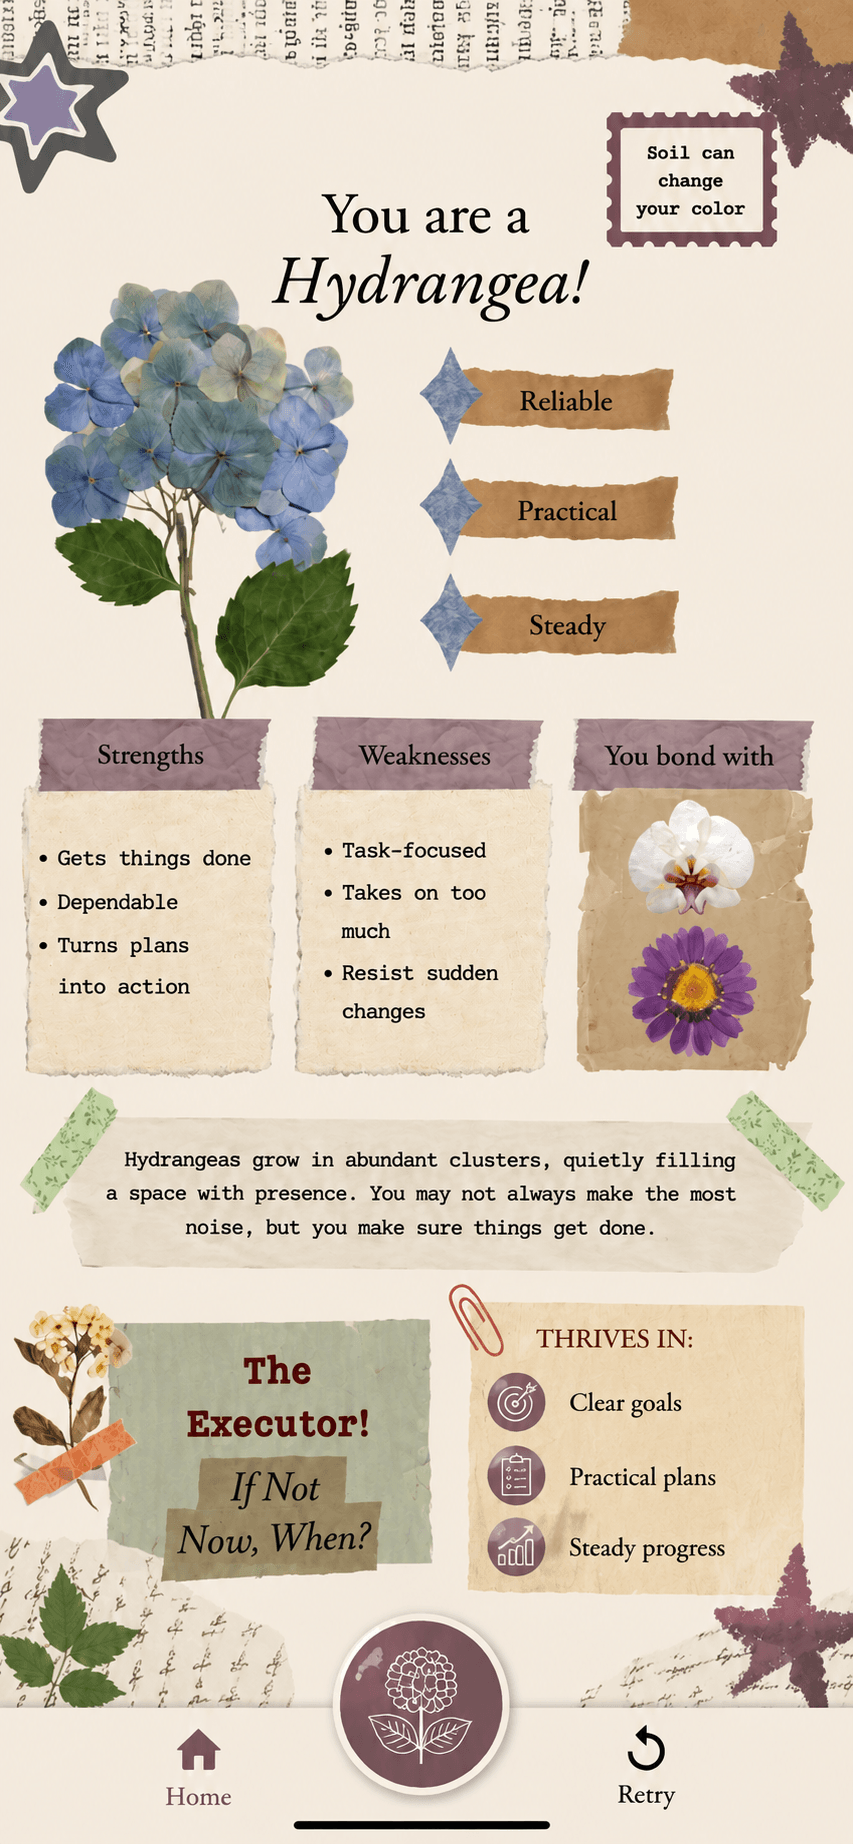
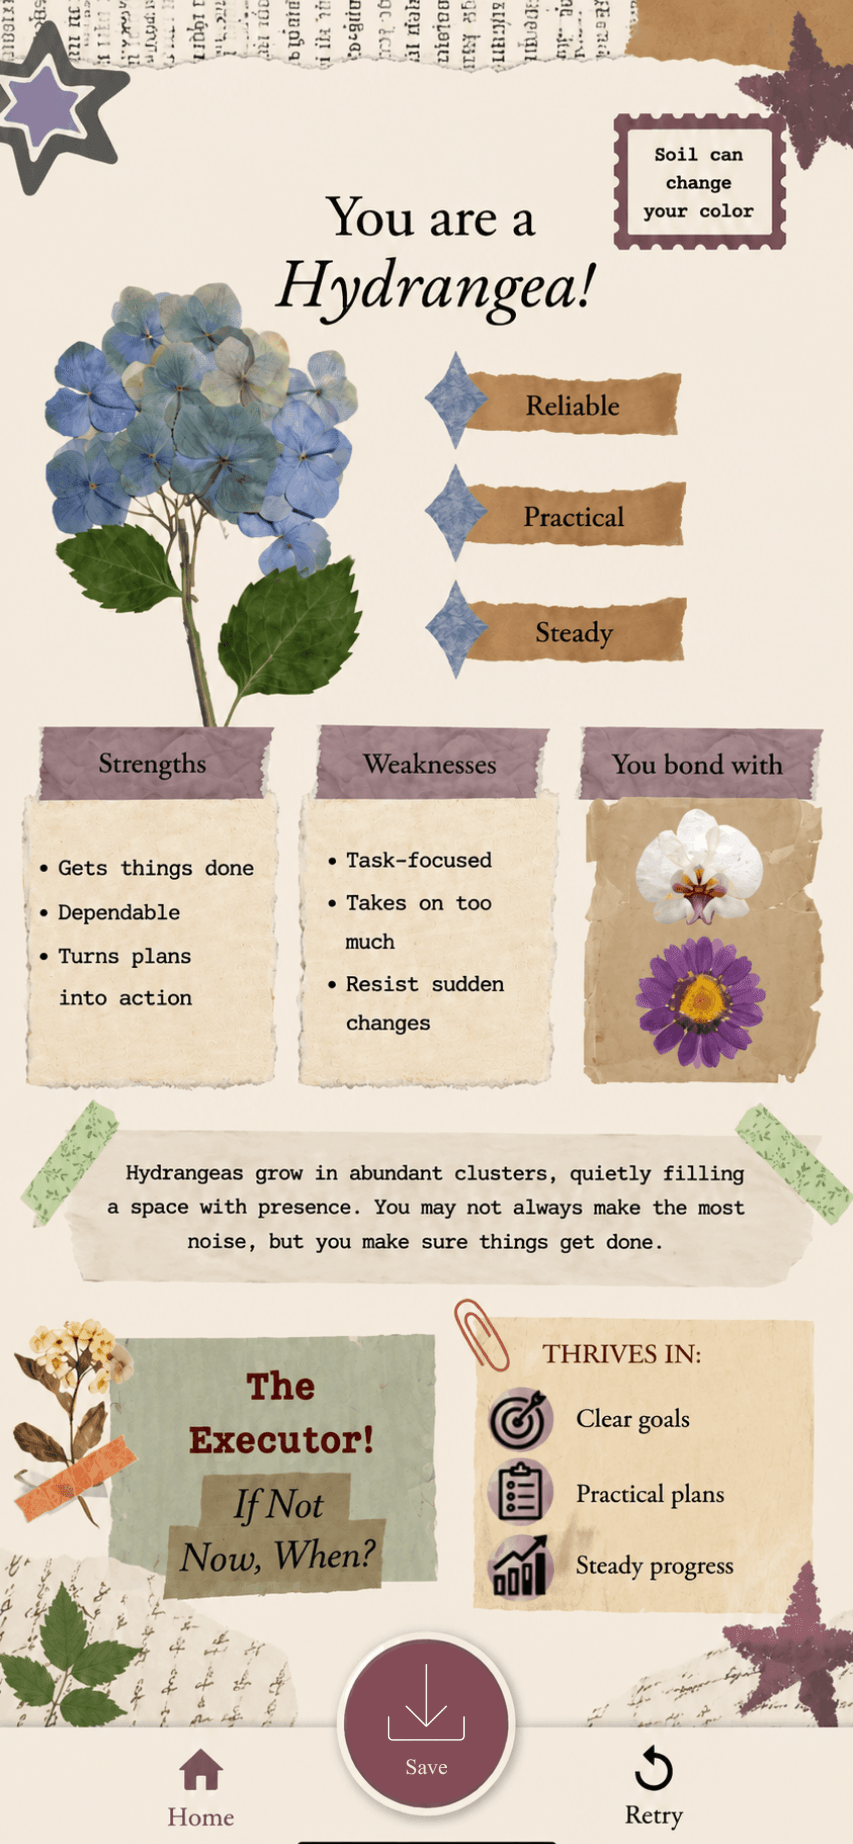
Add Save/download, Learn More writeup, and back button prominence
- Wire up Save hotspots on desktop and mobile result screens,
  downloading the clean pre-designed *_Save / *_Mbl_Save images
- Add a Learn More modal on the home screen with a short writeup
- Make the question page's back button visually prominent (pill button)
- Fix Hydrangea image filename typo
- Recompress newly replaced/added public images

Changed region(s): [[0.0, 0.0, 1.0, 1.0], [0.0, 0.0, 0.762, 0.0927]]

diff --git a/src/App.jsx b/src/App.jsx
@@ -167,6 +167,8 @@ const FLOWERS = [
     name: "Sunflower",
     image: `${BASE}Sunflower.png`,
     mobileImage: `${BASE}Sunflower_Mobile.png`,
+    saveImage: `${BASE}Sunflower_Save.png`,
+    mobileSaveImage: `${BASE}Sunflower_Mbl_Save.png`,
     target: { openness: 6.85, oceanC: 1.39, extraversion: 7.55, agreeableness: 1.53, neuroticism: 10, dominance: 10, influence: 3.7, steadiness: 1, discC: 1.43 },
   },
   {
@@ -174,6 +176,8 @@ const FLOWERS = [
     name: "Rose",
     image: `${BASE}Rose.png`,
     mobileImage: `${BASE}Rose_Mobile.png`,
+    saveImage: `${BASE}Rose_Save.png`,
+    mobileSaveImage: `${BASE}Rose_Mbl_Save.png`,
     target: { openness: 5.95, oceanC: 2.17, extraversion: 8.36, agreeableness: 6.82, neuroticism: 5.5, dominance: 2.69, influence: 7.3, steadiness: 5.5, discC: 2.71 },
   },
   {
@@ -181,13 +185,17 @@ const FLOWERS = [
     name: "Orchid",
     image: `${BASE}Orchid.png`,
     mobileImage: `${BASE}Orchid_Mobile.png`,
+    saveImage: `${BASE}Orchid_Save.png`,
+    mobileSaveImage: `${BASE}Orchid_Mbl_Save.png`,
     target: { openness: 4.15, oceanC: 8.04, extraversion: 1, agreeableness: 3.12, neuroticism: 5.5, dominance: 1.56, influence: 1, steadiness: 4.21, discC: 8.71 },
   },
   {
     id: "hydrangea",
     name: "Hydrangea",
-    image: `${BASE}Hydangea.png`,
+    image: `${BASE}Hydrangea.png`,
     mobileImage: `${BASE}Hydrangea_Mobile.png`,
+    saveImage: `${BASE}Hydrangea_Save.png`,
+    mobileSaveImage: `${BASE}Hydrangea_Mbl_Save.png`,
     target: { openness: 1.9, oceanC: 8.04, extraversion: 1, agreeableness: 3.12, neuroticism: 5.5, dominance: 2.69, influence: 1, steadiness: 4.86, discC: 8.29 },
   },
   {
@@ -195,6 +203,8 @@ const FLOWERS = [
     name: "Chrysanthemum",
     image: `${BASE}Chrysanthemum.png`,
     mobileImage: `${BASE}Chrysanthemum_Mobile.png`,
+    saveImage: `${BASE}Chrysanthemum_Save.png`,
+    mobileSaveImage: `${BASE}Chrysanthemum_Mbl_Save.png`,
     target: { openness: 3.25, oceanC: 3.35, extraversion: 1.82, agreeableness: 10, neuroticism: 1, dominance: 1.56, influence: 2.8, steadiness: 10, discC: 3.14 },
   },
 ];
@@ -267,6 +277,15 @@ function computeResult(answers) {
 /* ---------------------------------------------------------
    4. DECORATIVE BITS
 --------------------------------------------------------- */
+function downloadImage(url, filename) {
+  const a = document.createElement("a");
+  a.href = url;
+  a.download = filename;
+  document.body.appendChild(a);
+  a.click();
+  document.body.removeChild(a);
+}
+
 function EntryProgress({ total, current }) {
   return (
     <div className="progress-row" role="status" aria-label={`Entry ${current + 1} of ${total}`}>
@@ -280,18 +299,42 @@ function EntryProgress({ total, current }) {
 /* ---------------------------------------------------------
    5. SCREENS
 --------------------------------------------------------- */
-function CoverScreen({ onBegin }) {
+function CoverScreen({ onBegin, onLearnMore }) {
   return (
     <>
       <div className="image-page desktop-only">
         <img className="full-bleed-img" src={`${BASE}Home%20page.png`} alt="The Flower Within — every flower has a personality, which one is yours?" />
         <button className="hotspot hotspot-begin" onClick={onBegin} aria-label="Let's find out" />
+        <button className="hotspot hotspot-learn" onClick={onLearnMore} aria-label="Learn more" />
       </div>
       <div className="image-page-mobile mobile-only">
         <img className="full-bleed-img" src={`${BASE}Homepage_Mobile.png`} alt="The Flower Within — every flower has a personality, which one is yours?" />
         <button className="hotspot hotspot-begin-m" onClick={onBegin} aria-label="Let's find out" />
+        <button className="hotspot hotspot-learn-m" onClick={onLearnMore} aria-label="Learn more" />
       </div>
     </>
+  );
+}
+
+function LearnMoreModal({ onClose }) {
+  return (
+    <div className="learn-more-backdrop" onClick={onClose}>
+      <div className="learn-more-card" onClick={(e) => e.stopPropagation()}>
+        <button className="learn-more-close" onClick={onClose} aria-label="Close">×</button>
+        <h2 className="learn-more-title">About this little game</h2>
+        <p>
+          The Flower Within is a personality quiz dressed up as a pressed-flower scrapbook.
+          Answer 15 quick, everyday questions and we'll match the way you naturally move
+          through the world to one of five flowers — Sunflower, Rose, Orchid, Hydrangea, or
+          Chrysanthemum — each with its own strengths, quirks, and the people it bonds with best.
+        </p>
+        <p>
+          It takes about three minutes, there are no right answers, and it isn't a scientific
+          assessment — just a small, fond mirror. Once you get your flower, you can save it and
+          come back to retake it any time.
+        </p>
+      </div>
+    </div>
   );
 }
 
@@ -306,8 +349,8 @@ function QuestionScreen({ question, index, total, selected, onSelect, onBack }) 
   return (
     <div className="page question-page">
       <div className="question-top-row">
-        <button className="btn-text" onClick={onBack} aria-label="Go back to previous entry">
-          ‹ back
+        <button className="btn-back" onClick={onBack} aria-label="Go back to previous entry">
+          ‹ Back
         </button>
         <span className="entry-label">
           ENTRY {String(index + 1).padStart(2, "0")} / {total}
@@ -340,15 +383,20 @@ function QuestionScreen({ question, index, total, selected, onSelect, onBack }) 
 }
 
 function ResultScreen({ flower, onRestart, onHome }) {
+  const handleSave = () => downloadImage(flower.saveImage, `${flower.name}-The-Flower-Within.png`);
+  const handleSaveMobile = () => downloadImage(flower.mobileSaveImage, `${flower.name}-The-Flower-Within.png`);
+
   return (
     <>
       <div className="image-page desktop-only">
         <img className="full-bleed-img" src={flower.image} alt={`You are a ${flower.name}!`} />
+        <button className="hotspot hotspot-save" onClick={handleSave} aria-label="Save" />
         <button className="hotspot hotspot-home" onClick={onHome} aria-label="Home" />
         <button className="hotspot hotspot-retry" onClick={onRestart} aria-label="Retry" />
       </div>
       <div className="image-page-mobile mobile-only">
         <img className="full-bleed-img" src={flower.mobileImage} alt={`You are a ${flower.name}!`} />
+        <button className="hotspot hotspot-save-m" onClick={handleSaveMobile} aria-label="Save" />
         <button className="hotspot hotspot-home-m" onClick={onHome} aria-label="Home" />
         <button className="hotspot hotspot-retry-m" onClick={onRestart} aria-label="Retry" />
       </div>
@@ -363,6 +411,7 @@ export default function App() {
   const [screen, setScreen] = useState("cover"); // cover | question | result
   const [answers, setAnswers] = useState({});
   const [qIndex, setQIndex] = useState(0);
+  const [showLearnMore, setShowLearnMore] = useState(false);
 
   const result = useMemo(() => (screen === "result" ? computeResult(answers) : null), [screen, answers]);
 
@@ -405,7 +454,7 @@ export default function App() {
     <div className="app-root">
       <style>{CSS}</style>
       <div className="scrapbook-surface">
-        {screen === "cover" && <CoverScreen onBegin={() => setScreen("question")} />}
+        {screen === "cover" && <CoverScreen onBegin={() => setScreen("question")} onLearnMore={() => setShowLearnMore(true)} />}
         {screen === "question" && (
           <QuestionScreen
             key={currentQuestion.id}
@@ -419,7 +468,8 @@ export default function App() {
         )}
         {screen === "result" && result && <ResultScreen flower={result} onRestart={handleRestart} onHome={handleHome} />}
       </div>
-      <footer className="site-footer">© 2026 Vanikalyani R</footer>
+      {showLearnMore && <LearnMoreModal onClose={() => setShowLearnMore(false)} />}
+      <footer className="site-footer">© Vanikalyani R 2026</footer>
     </div>
   );
 }
@@ -499,6 +549,8 @@ const CSS = `
 }
 .hotspot:focus-visible{ outline:3px solid var(--slate); outline-offset:2px; }
 .hotspot-begin{ left:34%; top:61%; width:30%; height:10%; }
+.hotspot-learn{ left:38%; top:78%; width:24%; height:6%; }
+.hotspot-save{ left:91%; top:68%; width:9%; height:9%; }
 .hotspot-home{ left:91%; top:78%; width:9%; height:8.5%; }
 .hotspot-retry{ left:91%; top:87%; width:9%; height:9%; }
 
@@ -520,6 +572,8 @@ const CSS = `
   overflow:hidden;
 }
 .hotspot-begin-m{ left:26%; top:48%; width:48%; height:6.5%; }
+.hotspot-learn-m{ left:36%; top:58%; width:30%; height:5%; }
+.hotspot-save-m{ left:38%; top:84%; width:24%; height:8.5%; }
 .hotspot-home-m{ left:8%; top:96%; width:24%; height:4%; }
 .hotspot-retry-m{ left:68%; top:96%; width:24%; height:4%; }
 
@@ -555,17 +609,74 @@ const CSS = `
   .question-page{ aspect-ratio:auto; min-height:480px; padding:15% 8% 10%; }
 }
 
-.btn-text{
+.btn-back{
+  display:inline-flex;
+  align-items:center;
+  gap:2px;
+  background:rgba(47,38,32,0.09);
+  border:none;
+  border-radius:20px;
+  color:var(--ink);
+  font-family:'Baloo 2', sans-serif;
+  font-weight:600;
+  font-size:14px;
+  cursor:pointer;
+  padding:9px 18px 9px 14px;
+  min-height:40px;
+  transition:background 0.12s ease;
+}
+.btn-back:hover{ background:rgba(47,38,32,0.16); }
+.btn-back:focus-visible{ outline:3px solid var(--slate); outline-offset:2px; }
+
+/* ---- learn more modal ---- */
+.learn-more-backdrop{
+  position:fixed;
+  inset:0;
+  background:rgba(47,38,32,0.45);
+  display:flex;
+  align-items:center;
+  justify-content:center;
+  padding:20px;
+  z-index:20;
+}
+.learn-more-card{
+  position:relative;
+  max-width:480px;
+  width:100%;
+  max-height:80vh;
+  overflow-y:auto;
+  background:var(--paper);
+  padding:40px 32px 32px;
+  box-shadow:0 24px 60px rgba(47,38,32,0.35);
+  clip-path:polygon(0.5% 2%,99% 0%,100% 98%,0.5% 100%);
+}
+.learn-more-close{
+  position:absolute;
+  top:14px;
+  right:16px;
   background:none;
   border:none;
+  font-size:26px;
+  line-height:1;
   color:var(--ink-soft);
-  font-family:'Work Sans', sans-serif;
-  font-size:13px;
   cursor:pointer;
-  padding:10px 6px;
-  min-height:40px;
+  padding:6px;
 }
-.btn-text:focus-visible{ outline:3px solid var(--slate); outline-offset:2px; }
+.learn-more-close:hover{ color:var(--ink); }
+.learn-more-title{
+  font-family:'Baloo 2', sans-serif;
+  font-weight:700;
+  font-size:22px;
+  margin:0 0 16px;
+  color:var(--ink);
+}
+.learn-more-card p{
+  font-size:14.5px;
+  line-height:1.7;
+  color:var(--ink-soft);
+  margin:0 0 14px;
+}
+.learn-more-card p:last-child{ margin-bottom:0; }
 
 .question-top-row{
   display:flex;
